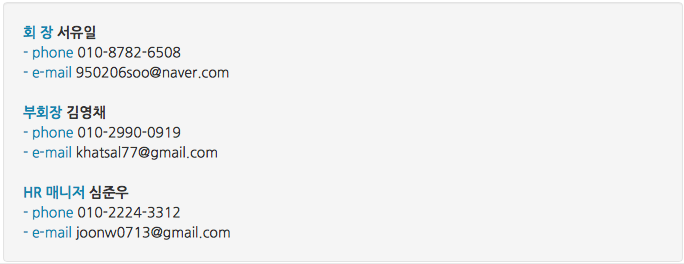
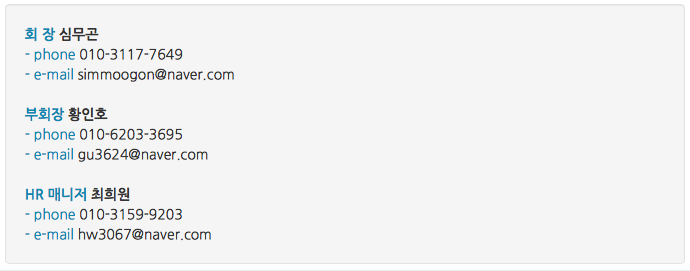
Update for 2016 1st semester
- made current_ordinal automatically increase

diff --git a/templates/yighub/public_Introduction.html b/templates/yighub/public_Introduction.html
@@ -19,19 +19,20 @@
 			<br />
 			<strong>회장 전언</strong>
 			<p class="wrap">
-YIG는 실전 투자 학회입니다. YIG는 ‘가치투자’라는 기준아래서 기업의 내재가치를 평가하고 시장이 제대로 평가하고 있지 못하는 종목을 찾아내어 실제 투자로 연결하고자 합니다. 이론적인 내용만을 공부하는 것을 넘어 학회 내에 있는 펀드를 통하여 실제 투자를 경험하고, 시장이 놓치고 있는 기업의 내재가치를 분석하여 투자한다는 점에서 여타의 투자학회들과는 차이를 가지고 있습니다. 이러한 YIG의 특징은 기업가치를 분석하는 애널리스트의 활동과 투자자의 자금을 운용하는 펀드 매니저의 활동을 포함하는 것으로, 금융의 큰 축을 이루는 부분과 밀접하게 연관되어 있습니다.
+YIG는 실전 가치투자 학회입니다. 리서치를 통해 기업의 내재가치를 분석하고, 내재가치 대비 저평가 된 종목을 찾아내는 ‘시장을 이기는 투자’를 하는 것이 YIG의 목표입니다.
 
-투자는 다양한 변수들이 수익률이라는 하나의 답을 도출하는 복잡한 함수와 같습니다. 기업에 대한 이슈나 해당 산업의 변화, 글로벌 거시지표의 변화 등에 따라 기업의 주가는 시시각각 변화합니다. 그러나, 매 시각 변화하는 주가와 함께 기업의 내재가치 역시 변화하는 것은 아닙니다. 단기의 주가는 우리가 쉽게 풀 수 없는 고차 함수이지만, 장기간의 주가 변화는 기업 내재가치의 1차 함수 입니다. 이렇게 YIG는 기업가치에 대한 분석을 통해 저평가된 주식의 매수를 통해 시장을 이기는 투자를 실현하고자 합니다.   
+이러한 YIG의 특징은 기업가치를 분석하는 애널리스트의 활동과 투자자의 자금을 운용하는 펀드 매니저의 활동을 포함하는 것으로, 금융의 큰 축을 이루는 부분들과 밀접하게 연관되어 있습니다.
 
-미국의 밴드 One Republic이 부른 Counting Stars라는 노래 속에 이런 가사가 있습니다. Said no more counting dollars, We’ll be counting stars. 그러나, 가치투자를 지향하는 YIG는 이렇게 표현할 수 있을 것이라 생각합니다.  
 
-Said we do counting dollars, but We’ll be counting stars.
+우리나라 증시는 연초부터 중국 경제성장률 경착륙 리스크, 북한의 핵실험, 초저유가로 인한 글로벌 경기침체로 인해 급격한 변동을 겪었습니다.
 
-투자를 하는 우리는 더 큰 수익을 추구하지만, 그 속에서 자신만의 투자관과 전설이 된 투자자들을 보며 꿈꾸던 로망이라는 별을 잃지 않아야 한다고 생각합니다. 돈과 별을 함께 셀 수 있는 여러분의 많은 지원 바랍니다.
+이러한 때일수록 기업 본연의 가치에 집중하고 좋은 종목을 발굴하여 싸게 매수할 수 있는 기회라고 생각합니다. 
 
- Keep Calm & Join YIG 
+얼마 전 &lt;BIG SHORT&gt;라는 영화를 보면서 “사람들은 나쁜 일이 일어나지 않길 바라고 그 확률을 축소한다.”라는 영화 대사에 큰 감명을 받았습니다. 우리는 아마도 평소에 진실을 외면한 채 감정에 기대어 보고 싶은 것만을 보려 하지 않았나 생각합니다.  
+
+영화 &lt;BIG　SHORT&gt;의 주인공처럼 보다 냉철한 판단으로 시장을 이기는 현명한 투자자가 되기 원하는 연세대학교 학생 여러분의 많은 지원 바랍니다.
 			</p>
-			<p class="text-right">회장 서유일 올림</p>
+			<p class="text-right">YIG 회장 심무곤 올림</p>
 			<br />
 			<br />
 			<strong>YIG 소개</strong>

diff --git a/templates/yighub/public_Apply.html b/templates/yighub/public_Apply.html
@@ -20,22 +20,21 @@
 			<span class="label label-info">1</span>
 			<strong>설명회 및 스터디 참여</strong>
 			<p class="wrap">
-설명회는 2015년 9월 8일 화요일에 진행됩니다. 
+설명회는 2016년 3월 7일 월요일에 진행됩니다.
 
 설명회는 학회 소개 및 활동 내역, 현업에 종사 중인 선배회원의 강의로 구성됩니다.
 			</p>
 			<span class="label label-info">2</span>
 			<strong>지원서 제출</strong>
 			<p class="wrap">
-이메일 접수 : 지원서(<a href="{% url 'yighub:download' 6495 'YIG 입회 지원서.doc' %}">Download</a>)를 다운 받아 2015YIG@gmail.com으로 제출 (9월 9일 23:00 마감) 
+이메일 접수 : 지원서(<a href="{% url 'yighub:download' 6495 'YIG 입회 지원서.doc' %}">Download</a>)를 다운 받아 2016YIG@gmail.com으로 제출 (3월 9일 수요일 23시 마감) 
 
 투자기업 선정 보고서에 일정한 양식은 없습니다. 해당 기업에 대한 투자 이유, 참신한 아이디어와 논리성 위주로 작성해주세요.
-
 			</p>
 			<span class="label label-info">3</span>
 			<strong>면접 참가</strong>
 			<p class="wrap">
-면접 일정은 지원서 합격자에 한하여 개별적으로 공지됩니다. (2015년 9월 10일 목요일, 합격자 발표 및 면접) 
+면접 일정은 지원서 합격자에 한하여 개별적으로 공지됩니다. (2016년 3월 10일, 11일 합격자 발표 및 면접)
 
 지원서에 희망 면접 시간을 기재하시면 최대한 반영하도록 하겠으나 약간의 차이가 있을 수도 있습니다. 
 

diff --git a/templates/yighub/public_Schedule.html b/templates/yighub/public_Schedule.html
@@ -30,22 +30,22 @@
 				</thead>
 				<tbody>
 					<tr>
-						<td>9월 1일(화)  ~ 9일(수)</td>
+						<td>3월 2일(수)-3월 9일(수)</td>
 						<td>지원서 제출 및 마감</td>
-						<td>9월 9일(화) 23:00 마감</td>
+						<td>3월 9일(수) 23:00 마감</td>
 					</tr>
 					<tr>
-						<td>9월 8일(화)  7:00 PM</td>
+						<td>3월 7일 월요일 7:00pm</td>
 						<td>YIG 신입회원 Recruiting 설명회<br />(현업 종사 선배회원 강의 포함)</td>
-						<td>장소: 대우관 별관 B103호</td>
+						<td>장소: 경영관 B224</td>
 					</tr>
 					<tr>
-						<td>9월 10일 (목) 오전</td>
+						<td>3월 10일 오전</td>
 						<td>서류합격 발표 및 면접안내</td>
 						<td>개별통보</td>
 					</tr>
 					<tr>
-						<td>9월 10일 (목) 오후</td>
+						<td>3월 10 - 11일</td>
 						<td>지원자 대상 면접</td>
 						<td>
 							<!-- 오전10시 ~ 오후 5시 <br /> -->
@@ -54,13 +54,13 @@
 							※ 상황에 따라 지원자 별 면접일자가 다를 수 있음</td>
 					</tr>
 					<tr>
-						<td>9월 11일 (금)</td>
+						<td>3월 11일</td>
 						<td>합격자 발표</td>
 						<td>합격자 개별 통보</td>
 					</tr>
 					<tr>
-						<td>9월 12일 (토)</td>
-						<td>첫 세션 및 신입회원 환영회</td>
+						<td>3월 12일</td>
+						<td>첫 세션 및 엠티</td>
 						<td></td>
 					</tr>
 

diff --git a/templates/yighub/public_Contact Us.html b/templates/yighub/public_Contact Us.html
@@ -19,37 +19,37 @@
 			<br />
 			<img src="/static/yighub/images/contacts.png" style="height:30%; width:100%;" />
 
-			<!-- <div class="well">
+<!-- 			<div class="well">
 				<strong class="text-info">회 장</strong>
-				<strong>서유일</strong>
+				<strong>심무곤</strong>
 				<br />
 				<span class="text-info">- phone</span>
-				<span>010-8782-6508</span>
+				<span>010-3117-7649</span>
 				<br />
 				<span class="text-info">- e-mail</span>
-				<span>950206soo@naver.com</span>
+				<span>simmoogon@naver.com</span>
 				<br />
 				<br />
 
 				<strong class="text-info">부회장</strong>
-				<strong>김영채</strong>
+				<strong>황인호</strong>
 				<br />
 				<span class="text-info">- phone</span>
-				<span>010-2990-0919</span>
+				<span>010-6203-3695</span>
 				<br />
 				<span class="text-info">- e-mail</span>
-				<span>khatsal77@gmail.com</span>
+				<span>gu3624@naver.com</span>
 				<br />
 				<br />
 				
 				<strong class="text-info">HR 매니저</strong>
-				<strong>심준우</strong>
+				<strong>최희원</strong>
 				<br />
 				<span class="text-info">- phone</span>
-				<span>010-2224-3312</span>
+				<span>010-3159-9203</span>
 				<br />
 				<span class="text-info">- e-mail</span>
-				<span>joonw0713@gmail.com</span>
+				<span>hw3067@naver.com</span>
 				<br />
 			</div> -->
 

diff --git a/templates/yighub/public_Recruiting.html b/templates/yighub/public_Recruiting.html
@@ -17,14 +17,14 @@
 			</div>
 			<br />
 			<br />
-			<strong>2015년 1학기 정회원 리쿠르팅</strong>
+			<strong>2016년 1학기 정회원 리쿠르팅</strong>
 			<br />
 			<br />
 			<br />
 			<p class="text-info text-center wrap">
 Beating the Market 시장을 이기는 투자 YIG  
 Keep Calm and Join YIG 
-YIG는 2015년 2학기 26기 회원을 모집합니다.
+YIG는 2016년 1학기 27기 회원을 모집합니다.
 			</p>
 			<p class="wrap">
 기존 증권투자동아리가 경영 및 경제 관련 전공의 학생들만이 주로 활동하는 것과 달리 YIG는 공학, 법학, 정치학, 문학, 사회학 등 다양한 분야의 학생들이 모여 더욱 새롭고 다양한 시각으로 기업을 분석하여 높은 시너지 효과를 얻고 있습니다. 

diff --git a/yighub/views.py b/yighub/views.py
@@ -42,7 +42,7 @@ PublicBoardDict = {}
 for public_board in PublicBoardList:
     PublicBoardDict[public_board.name[:4]] = public_board
 
-current_ordinal = 24
+current_ordinal = User.objects.all().order_by('-ordinal')[0].ordinal
 
 def classify(board):
     exist = True
